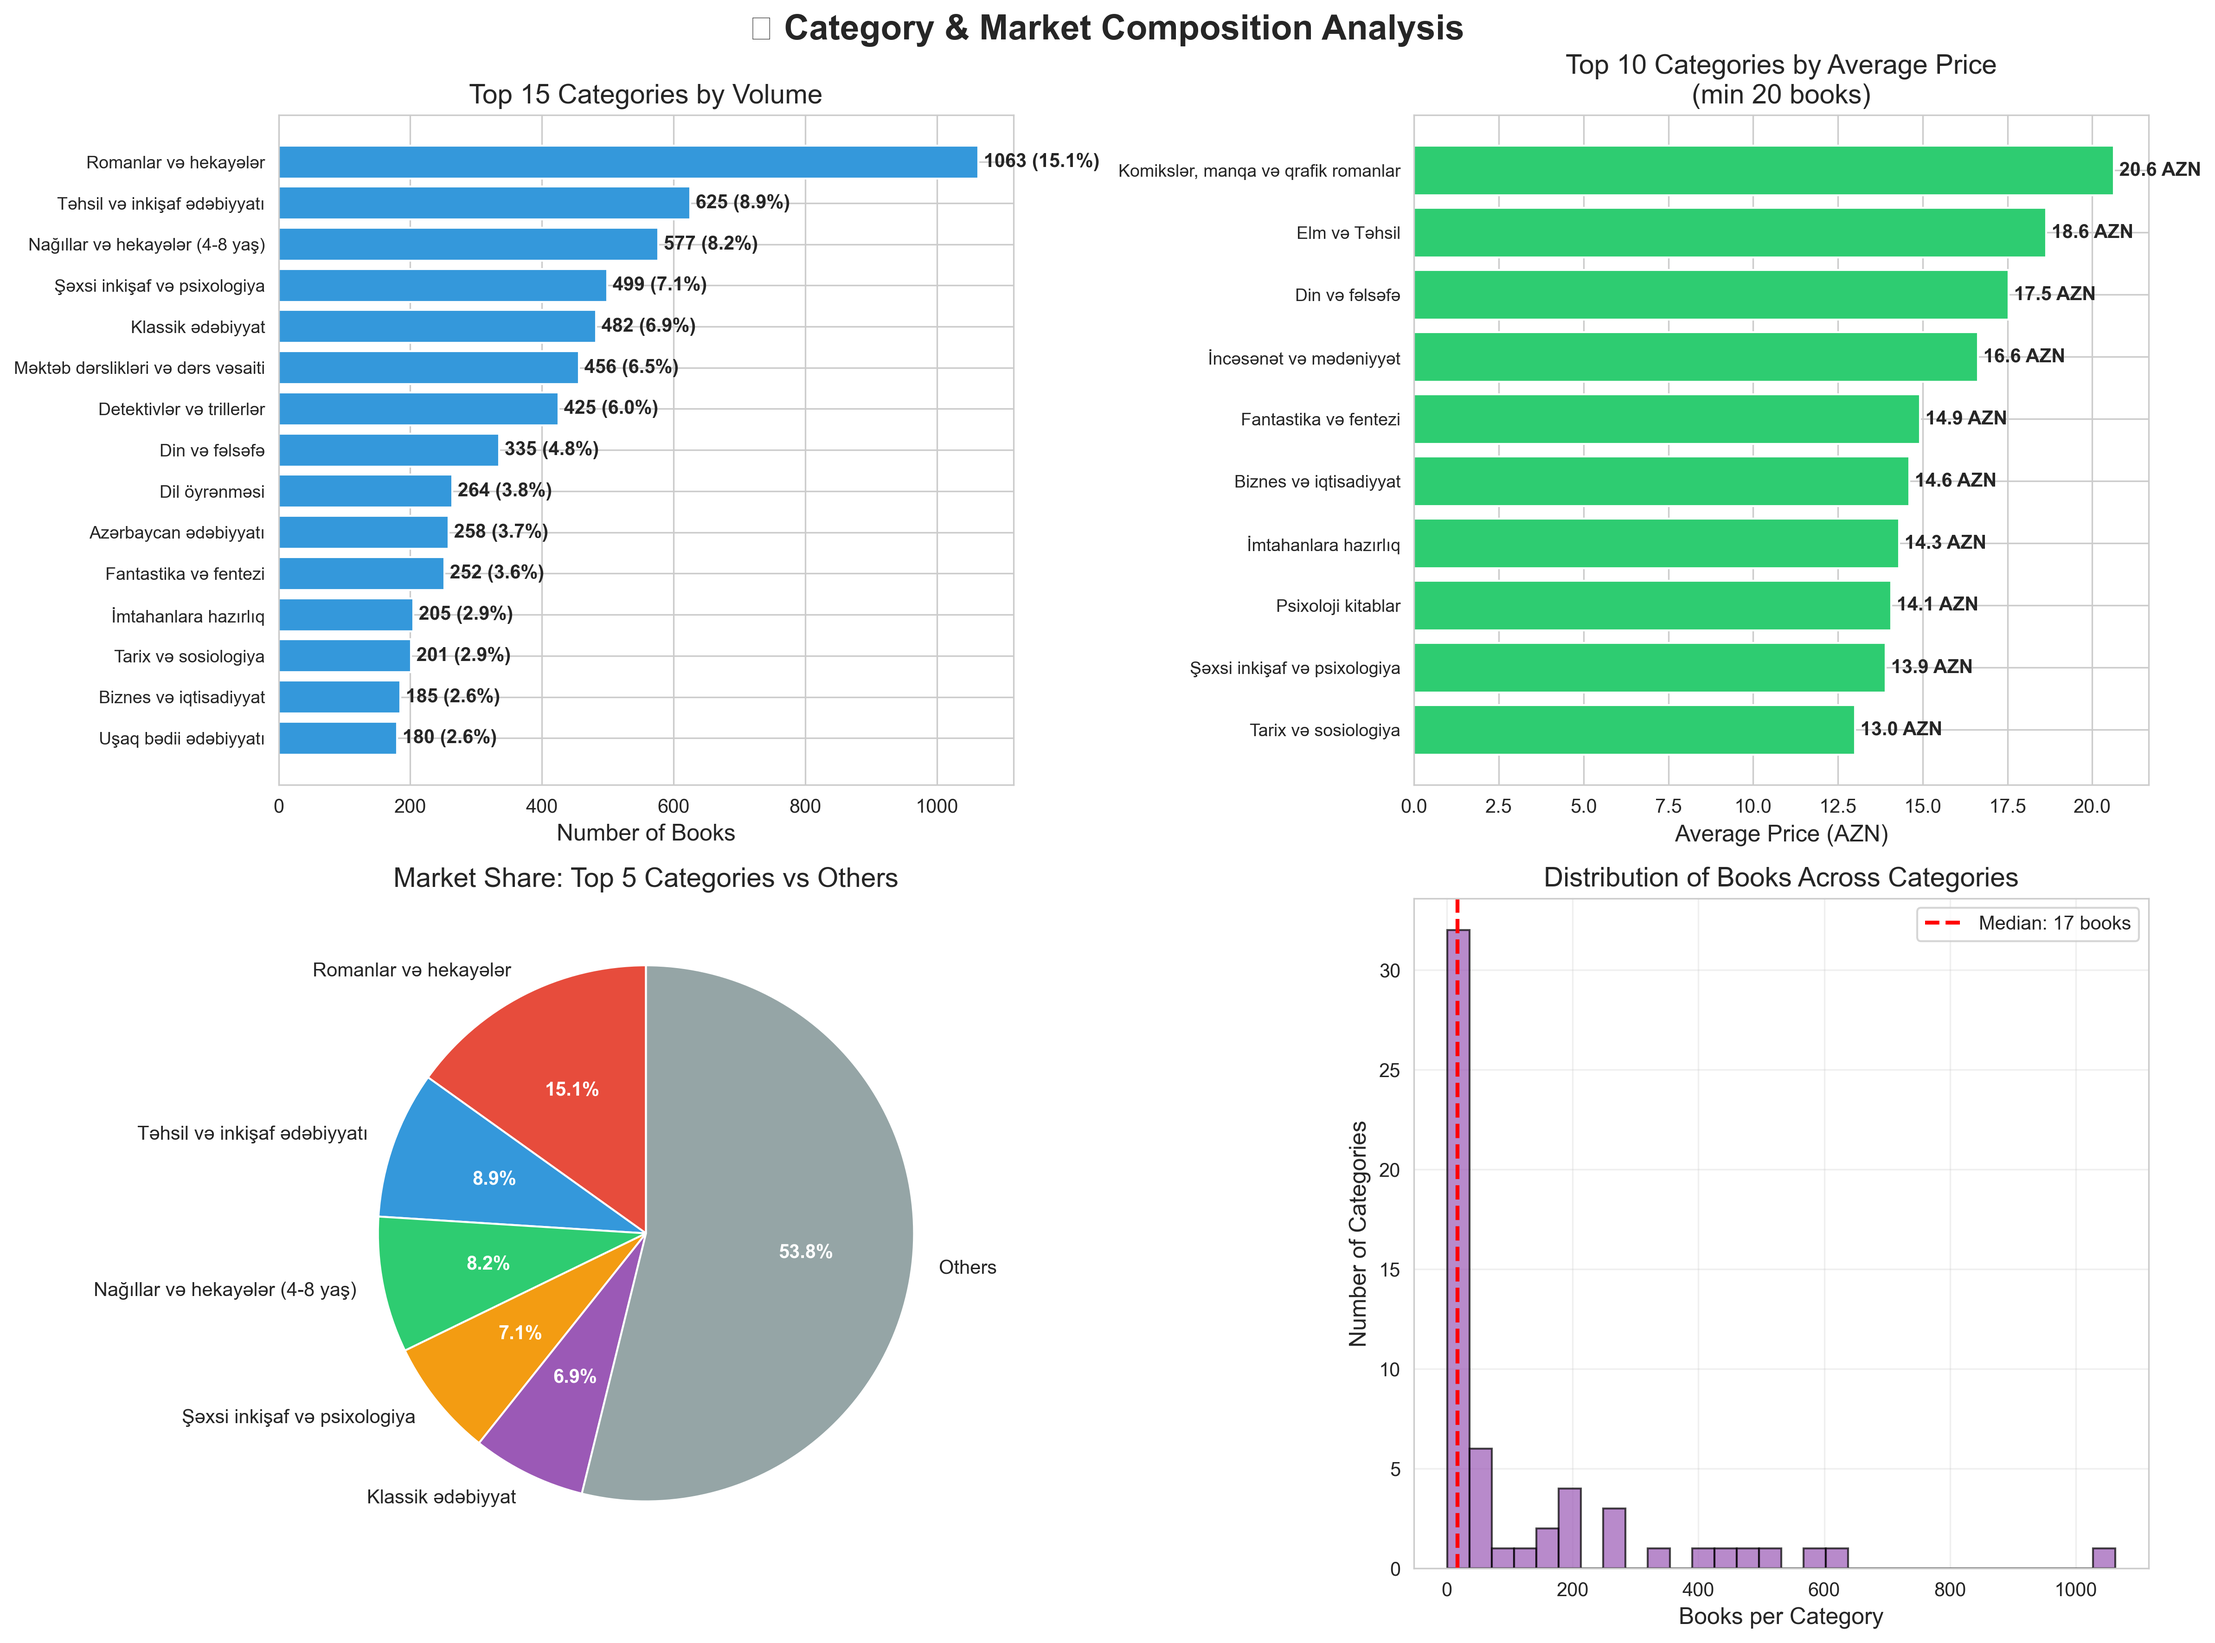
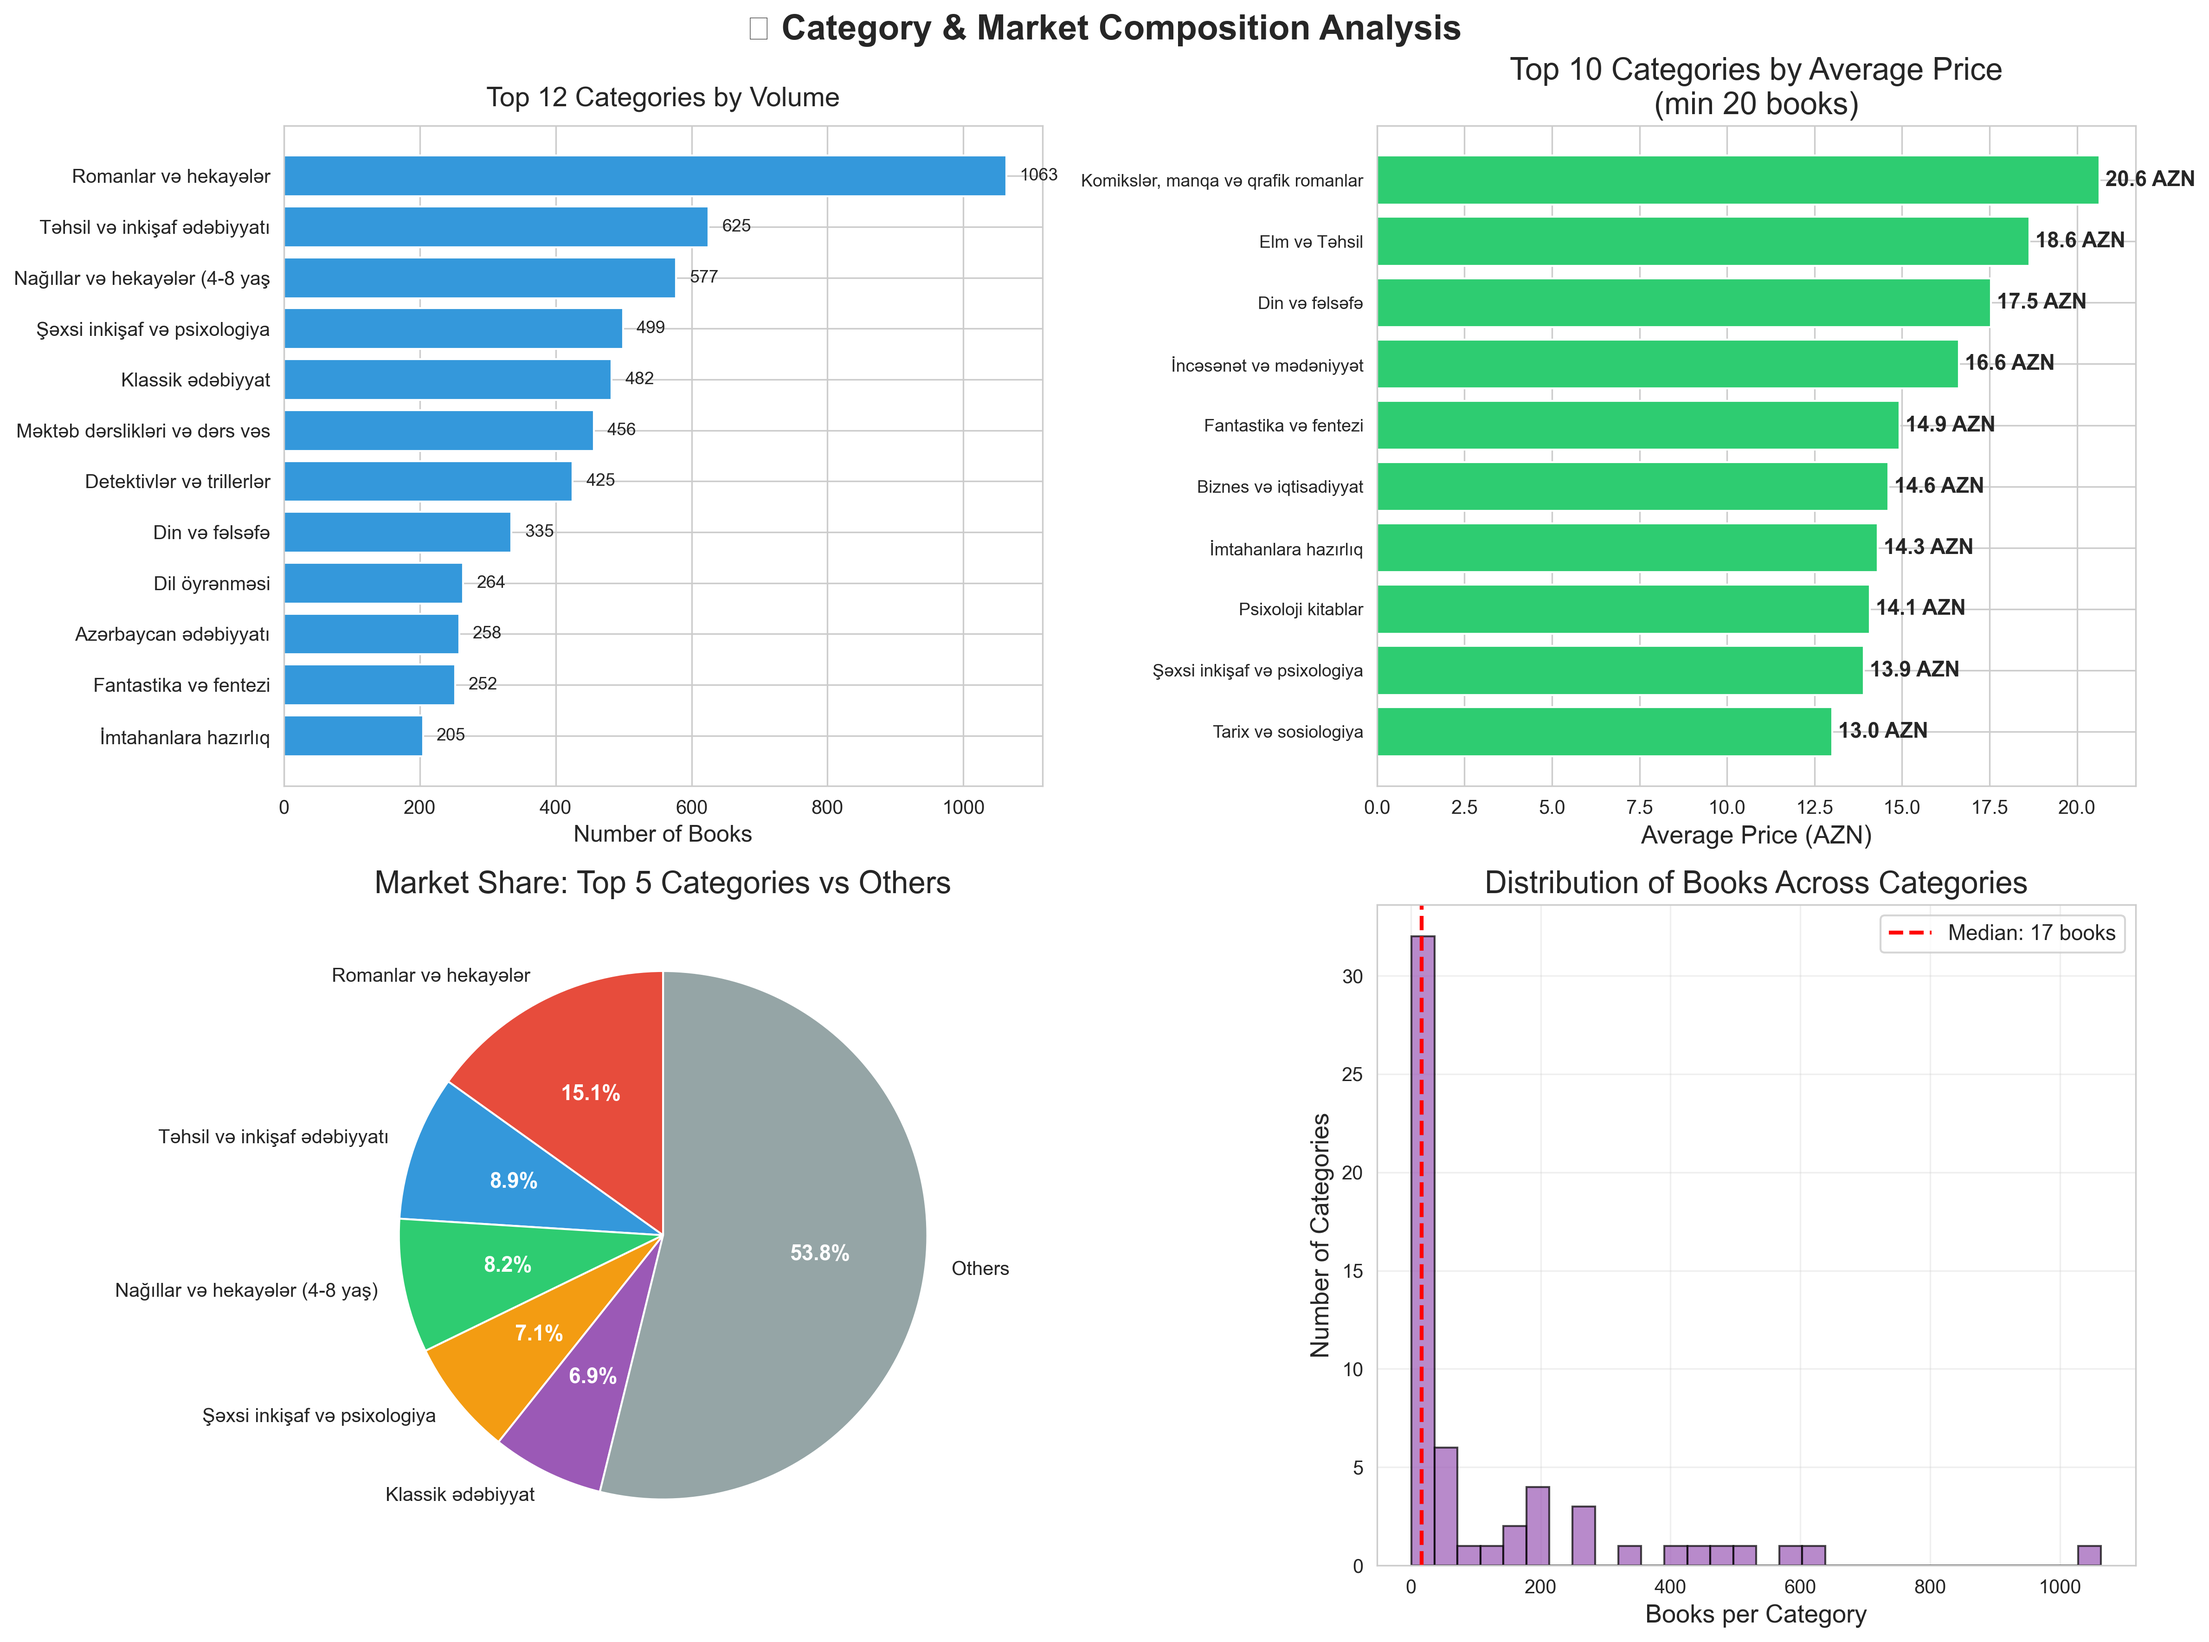
init

diff --git a/generate_charts.py b/generate_charts.py
@@ -83,16 +83,16 @@ for bar in bars:
 # 1.4 Top 10 Most Expensive Books
 ax4 = axes[1, 1]
 top_expensive = df.nlargest(10, 'retail_price')[['name', 'retail_price']].copy()
-top_expensive['short_name'] = top_expensive['name'].str[:40] + '...'
+top_expensive['short_name'] = top_expensive['name'].str[:35] + '...'
 bars = ax4.barh(range(len(top_expensive)), top_expensive['retail_price'], color='#e67e22')
 ax4.set_yticks(range(len(top_expensive)))
-ax4.set_yticklabels(top_expensive['short_name'], fontsize=8)
-ax4.set_xlabel('Price (AZN)')
-ax4.set_title('Top 10 Most Expensive Books')
+ax4.set_yticklabels(top_expensive['short_name'], fontsize=9)
+ax4.set_xlabel('Price (AZN)', fontsize=12)
+ax4.set_title('Top 10 Most Expensive Books', fontsize=14, pad=10)
 ax4.invert_yaxis()
 for i, (idx, row) in enumerate(top_expensive.iterrows()):
-    ax4.text(row['retail_price'], i, f' {row["retail_price"]:.0f} AZN',
-            va='center', fontweight='bold')
+    ax4.text(row['retail_price'] + 2, i, f'{row["retail_price"]:.0f}',
+            va='center', fontsize=9)
 
 plt.tight_layout()
 plt.savefig('charts/1_pricing_strategy.png', dpi=300, bbox_inches='tight')
@@ -105,17 +105,17 @@ plt.close()
 fig, axes = plt.subplots(2, 2, figsize=(16, 12))
 fig.suptitle('📚 Category & Market Composition Analysis', fontsize=18, fontweight='bold')
 
-# 2.1 Top 15 Categories
+# 2.1 Top 12 Categories (reduced for readability)
 ax1 = axes[0, 0]
-top_categories = df['category_name'].value_counts().head(15)
+top_categories = df['category_name'].value_counts().head(12)
 bars = ax1.barh(range(len(top_categories)), top_categories.values, color='#3498db')
 ax1.set_yticks(range(len(top_categories)))
-ax1.set_yticklabels(top_categories.index, fontsize=9)
-ax1.set_xlabel('Number of Books')
-ax1.set_title('Top 15 Categories by Volume')
+ax1.set_yticklabels([name[:30] for name in top_categories.index], fontsize=10)
+ax1.set_xlabel('Number of Books', fontsize=12)
+ax1.set_title('Top 12 Categories by Volume', fontsize=14, pad=10)
 ax1.invert_yaxis()
 for i, v in enumerate(top_categories.values):
-    ax1.text(v, i, f' {v} ({v/len(df)*100:.1f}%)', va='center', fontweight='bold')
+    ax1.text(v + 20, i, f'{v}', va='center', fontsize=9)
 
 # 2.2 Category by Average Price
 ax2 = axes[0, 1]
@@ -468,99 +468,92 @@ print("✓ Saved: 6_brand_analysis.png")
 plt.close()
 
 # ===========================
-# 7. COMPREHENSIVE DASHBOARD
+# 7. MARKET OVERVIEW DASHBOARD (SIMPLIFIED)
 # ===========================
-fig = plt.figure(figsize=(20, 12))
-gs = fig.add_gridspec(3, 4, hspace=0.3, wspace=0.3)
-fig.suptitle('📊 Books Market - Comprehensive Dashboard', fontsize=20, fontweight='bold')
+fig, axes = plt.subplots(2, 3, figsize=(18, 12))
+fig.suptitle('📊 Market Overview Dashboard', fontsize=20, fontweight='bold', y=0.995)
 
-# Key Metrics
-ax_metrics = fig.add_subplot(gs[0, :])
-ax_metrics.axis('off')
-metrics_text = f"""
-KEY BUSINESS METRICS
-
-Total Books: {len(df):,} | Total Categories: {df['category_name'].nunique()} | Total Brands: {df['brand'].nunique()} | Total Sellers: {df['seller_name'].nunique()}
-
-Average Price: {df['retail_price'].mean():.2f} AZN | Median Price: {df['retail_price'].median():.2f} AZN | Price Range: {df['retail_price'].min():.2f} - {df['retail_price'].max():.2f} AZN
-
-Books with Discount: {(df['has_discount'].sum()/len(df)*100):.1f}% | Avg Discount: {discount_books['discount_percent'].mean():.1f}%
-
-Installment Available: {(df['installment_enabled'].sum()/len(df)*100):.1f}% | Rated Books: {(len(rated_books)/len(df)*100):.1f}% | Avg Rating: {rated_books['rating_value'].mean():.2f}/5.0
-"""
-ax_metrics.text(0.5, 0.5, metrics_text, ha='center', va='center', fontsize=12,
-               family='monospace', bbox=dict(boxstyle='round', facecolor='wheat', alpha=0.5))
-
-# Mini charts
-# 1. Top 5 Categories
-ax1 = fig.add_subplot(gs[1, 0])
+# 1. Top Categories
+ax1 = axes[0, 0]
 top_5_cats = df['category_name'].value_counts().head(5)
-ax1.barh(range(len(top_5_cats)), top_5_cats.values, color='#3498db')
+bars = ax1.barh(range(len(top_5_cats)), top_5_cats.values, color='#3498db')
 ax1.set_yticks(range(len(top_5_cats)))
-ax1.set_yticklabels([name[:20] for name in top_5_cats.index], fontsize=8)
-ax1.set_title('Top 5 Categories', fontsize=10, fontweight='bold')
+ax1.set_yticklabels([name[:25] for name in top_5_cats.index], fontsize=10)
+ax1.set_xlabel('Books', fontsize=11)
+ax1.set_title('Top 5 Categories', fontsize=13, fontweight='bold', pad=10)
 ax1.invert_yaxis()
+for i, v in enumerate(top_5_cats.values):
+    ax1.text(v + 20, i, f'{v}', va='center', fontsize=9)
 
-# 2. Top 5 Sellers
-ax2 = fig.add_subplot(gs[1, 1])
+# 2. Top Sellers
+ax2 = axes[0, 1]
 top_5_sellers = df['seller_name'].value_counts().head(5)
-ax2.barh(range(len(top_5_sellers)), top_5_sellers.values, color='#e67e22')
+bars = ax2.barh(range(len(top_5_sellers)), top_5_sellers.values, color='#e67e22')
 ax2.set_yticks(range(len(top_5_sellers)))
-ax2.set_yticklabels([name[:20] for name in top_5_sellers.index], fontsize=8)
-ax2.set_title('Top 5 Sellers', fontsize=10, fontweight='bold')
+ax2.set_yticklabels([name[:20] for name in top_5_sellers.index], fontsize=10)
+ax2.set_xlabel('Books', fontsize=11)
+ax2.set_title('Top 5 Sellers', fontsize=13, fontweight='bold', pad=10)
 ax2.invert_yaxis()
+for i, v in enumerate(top_5_sellers.values):
+    ax2.text(v + 50, i, f'{v}', va='center', fontsize=9)
 
 # 3. Price Distribution
-ax3 = fig.add_subplot(gs[1, 2])
-ax3.hist(df['retail_price'][df['retail_price'] <= 50], bins=30, color='#2ecc71', alpha=0.7)
-ax3.set_xlabel('Price (AZN)', fontsize=8)
-ax3.set_ylabel('Count', fontsize=8)
-ax3.set_title('Price Distribution', fontsize=10, fontweight='bold')
+ax3 = axes[0, 2]
+prices_viz = df['retail_price'][df['retail_price'] <= 50]
+ax3.hist(prices_viz, bins=40, color='#2ecc71', alpha=0.7, edgecolor='black', linewidth=0.5)
+ax3.axvline(prices_viz.median(), color='red', linestyle='--', linewidth=2, label=f'Median: {prices_viz.median():.1f}')
+ax3.set_xlabel('Price (AZN)', fontsize=11)
+ax3.set_ylabel('Count', fontsize=11)
+ax3.set_title('Price Distribution (≤50 AZN)', fontsize=13, fontweight='bold', pad=10)
+ax3.legend(fontsize=10)
+ax3.grid(True, alpha=0.3, axis='y')
 
 # 4. Rating Distribution
-ax4 = fig.add_subplot(gs[1, 3])
+ax4 = axes[1, 0]
 rating_counts = rated_books['rating_value'].value_counts().sort_index()
-ax4.bar(rating_counts.index, rating_counts.values, color='#f39c12')
-ax4.set_xlabel('Rating', fontsize=8)
-ax4.set_ylabel('Count', fontsize=8)
-ax4.set_title('Rating Distribution', fontsize=10, fontweight='bold')
+bars = ax4.bar(rating_counts.index, rating_counts.values, color='#f39c12', edgecolor='black', linewidth=1)
+ax4.set_xlabel('Rating (Stars)', fontsize=11)
+ax4.set_ylabel('Count', fontsize=11)
+ax4.set_title('Customer Ratings', fontsize=13, fontweight='bold', pad=10)
 ax4.set_xticks([1, 2, 3, 4, 5])
+ax4.grid(True, alpha=0.3, axis='y')
+for bar in bars:
+    height = bar.get_height()
+    ax4.text(bar.get_x() + bar.get_width()/2., height,
+            f'{int(height)}',
+            ha='center', va='bottom', fontsize=9)
 
-# 5. Market Segments
-ax5 = fig.add_subplot(gs[2, 0])
-segment_counts.plot(kind='pie', ax=ax5, autopct='%1.0f%%', colors=['#3498db', '#2ecc71', '#f39c12', '#e74c3c', '#9b59b6'])
-ax5.set_ylabel('')
-ax5.set_title('Price Segments', fontsize=10, fontweight='bold')
+# 5. Price Segments
+ax5 = axes[1, 1]
+colors_seg = ['#3498db', '#2ecc71', '#f39c12', '#e74c3c', '#9b59b6']
+wedges, texts, autotexts = ax5.pie(segment_counts.values, labels=segment_counts.index,
+                                     autopct='%1.1f%%', colors=colors_seg, startangle=90)
+for autotext in autotexts:
+    autotext.set_color('white')
+    autotext.set_fontweight('bold')
+    autotext.set_fontsize(10)
+for text in texts:
+    text.set_fontsize(9)
+ax5.set_title('Market Segments', fontsize=13, fontweight='bold', pad=10)
 
-# 6. Installment
-ax6 = fig.add_subplot(gs[2, 1])
-installment_data.plot(kind='pie', ax=ax6, autopct='%1.0f%%', colors=['#27ae60', '#e74c3c'],
-                     labels=['Available', 'Not Available'])
-ax6.set_ylabel('')
-ax6.set_title('Installment Options', fontsize=10, fontweight='bold')
+# 6. Installment vs No Installment
+ax6 = axes[1, 2]
+inst_counts = df['installment_enabled'].value_counts()
+colors_inst = ['#27ae60', '#e74c3c']
+labels_inst = [f'Installment\n({inst_counts[True]} books)', f'Cash Only\n({inst_counts[False]} books)']
+wedges, texts, autotexts = ax6.pie(inst_counts.values, labels=labels_inst,
+                                     autopct='%1.1f%%', colors=colors_inst, startangle=90)
+for autotext in autotexts:
+    autotext.set_color('white')
+    autotext.set_fontweight('bold')
+    autotext.set_fontsize(11)
+for text in texts:
+    text.set_fontsize(10)
+ax6.set_title('Payment Options', fontsize=13, fontweight='bold', pad=10)
 
-# 7. Top Brands
-ax7 = fig.add_subplot(gs[2, 2])
-top_5_brands = df['brand'].value_counts().head(5)
-ax7.barh(range(len(top_5_brands)), top_5_brands.values, color='#16a085')
-ax7.set_yticks(range(len(top_5_brands)))
-ax7.set_yticklabels([name[:15] for name in top_5_brands.index], fontsize=8)
-ax7.set_title('Top 5 Brands', fontsize=10, fontweight='bold')
-ax7.invert_yaxis()
-
-# 8. Seller Performance
-ax8 = fig.add_subplot(gs[2, 3])
-seller_perf_top = seller_perf.nlargest(20, 'book_count')
-ax8.scatter(seller_perf_top['book_count'], seller_perf_top['seller_rating'],
-           s=seller_perf_top['book_count'], alpha=0.6, c=seller_perf_top['seller_rating'],
-           cmap='RdYlGn')
-ax8.set_xlabel('Catalog Size', fontsize=8)
-ax8.set_ylabel('Rating %', fontsize=8)
-ax8.set_title('Seller Performance', fontsize=10, fontweight='bold')
-ax8.grid(True, alpha=0.3)
-
-plt.savefig('charts/7_comprehensive_dashboard.png', dpi=300, bbox_inches='tight')
-print("✓ Saved: 7_comprehensive_dashboard.png")
+plt.tight_layout()
+plt.savefig('charts/7_market_overview.png', dpi=300, bbox_inches='tight')
+print("✓ Saved: 7_market_overview.png")
 plt.close()
 
 print("\n" + "="*60)

diff --git a/README.md b/README.md
@@ -426,21 +426,19 @@ This report presents a comprehensive business intelligence analysis of the onlin
 
 ---
 
-## 📊 7. Comprehensive Market Dashboard
+## 📊 7. Market Overview Dashboard
 
-![Comprehensive Dashboard](charts/7_comprehensive_dashboard.png)
+![Market Overview Dashboard](charts/7_market_overview.png)
 
 ### At-a-Glance Business Metrics
 
-This dashboard provides a holistic view of the entire marketplace, combining:
-- **Category Distribution**: Top performers and market share
-- **Seller Landscape**: Market concentration and competitive dynamics
-- **Pricing Strategy**: Optimal price points and segments
-- **Customer Satisfaction**: Rating patterns and engagement
-- **Market Segments**: Price-based customer targeting
-- **Payment Options**: Installment flexibility
-- **Brand Presence**: Top brands and their positioning
-- **Seller Performance**: Rating vs volume correlation
+This simplified dashboard provides a clear visual overview of key market metrics:
+- **Top Categories**: Leading product categories by volume
+- **Top Sellers**: Market leaders and their catalog sizes
+- **Price Distribution**: How books are priced across the market
+- **Customer Ratings**: Rating distribution and satisfaction levels
+- **Market Segments**: Customer targeting by price points
+- **Payment Options**: Installment availability and adoption
 
 ---
 
